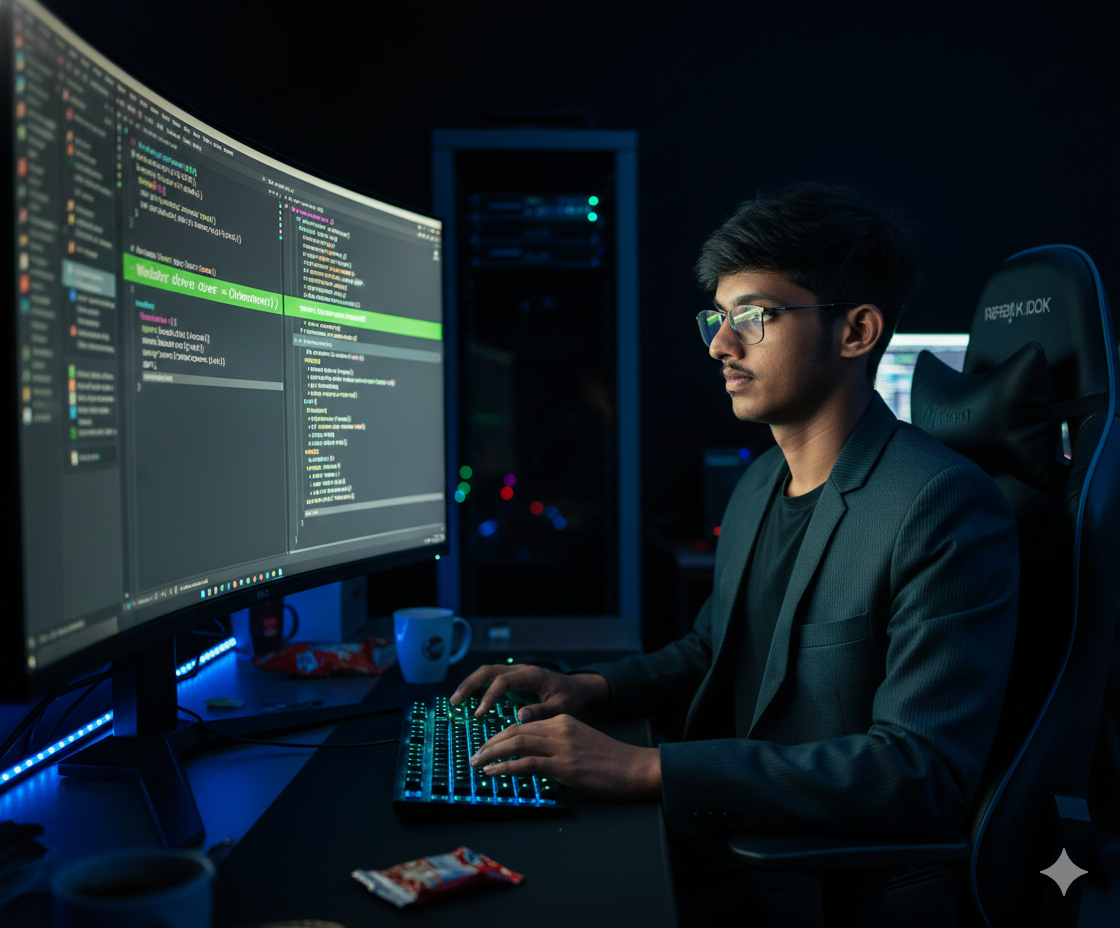
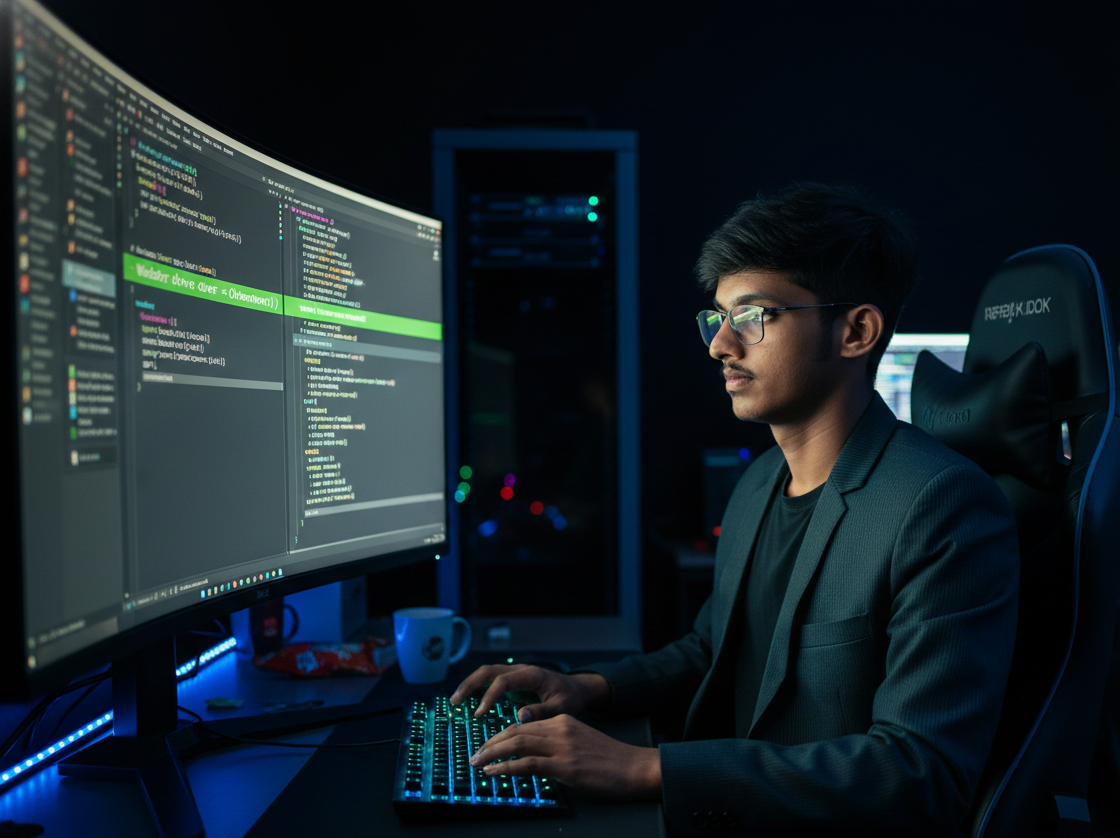
Newly Updated

diff --git a/style.css b/style.css
@@ -441,16 +441,60 @@ textarea {
         
 .project-cs-hero {
   color: #FF8800;
-  background-image:url("IMG_2900\ \(1\).jpg");
+  background-image: url("IMG_2900 (1).jpg");
   background-size: cover;
   background-position: center;
-  position: relative; }
-  @media only screen and (max-width: 37.5em) {
-    .project-cs-hero {
-      height: unset;
-      min-height: unset; } }
+  position: relative;
+
+  /* Start zoomed out */
+  transform: scale(1.2);
+
+  /* Animate to normal scale */
+  animation: zoomInBg 3s ease forwards;
+  transform-origin: center center;
+}
+
+@keyframes zoomInBg {
+  from {
+    transform: scale(1.2);
+  }
+  to {
+    transform: scale(1);
+  }
+}
+
+@media only screen and (max-width: 38.5em) {
+  .project-cs-hero {
+    height: unset;
+    min-height: unset;
+  }
+}
+
+.project-cs-hero__content {
+  padding: 25rem 0 17rem 0;
+  max-width: 90rem;
+  width: 92%;
+  margin: auto;
+}
+
+@media only screen and (max-width: 37.5em) {
+  .project-cs-hero__content {
+    padding: 19rem 0 13rem 0;
+    margin: auto;
+    position: static;
+    transform: translate(0, 0);
+  }
+}
+
+.text-primary {
+  color: white;
+}
+
+
+
   .project-cs-hero__content {
     padding: 25rem 0 17rem 0;
+
    
 
     
@@ -460,8 +504,7 @@ textarea {
     @media only screen and (max-width: 37.5em) {
       .project-cs-hero__content {
        
-       
-        padding: 19rem 0 13rem 0;
+       padding: 19rem 0 13rem 0;
         margin: auto;
         position: static;
         transform: translate(0, 0); } }

diff --git a/index.html b/index.html
@@ -98,10 +98,7 @@
 
         <div class="home-hero__info">
           <p class="text-primary" id="animatedText">
-Driven Software Developer with expertise in Java and Spring Boot, and proven experience in designing,
-developing, and optimizing scalable applications. Passionate about leveraging cuttingedge technologies
-to drive innovation Technology. Skilled in problem-solving, collaborative development, and delivering
-solutions that meet both technical and business goals.
+Driven Software Developer with expertise in Java and Spring Boot, experienced in designing, developing, and optimizing scalable applications. Proficient in Microservices architecture and monitoring tools like Kibana, with a proven ability to leverage cutting-edge technologies to drive innovation. Skilled in problem-solving, collaborative development, and delivering solutions that align with both technical requirements and business goals.
           </p>
         </div>
         <div class="home-hero__cta">

diff --git a/project3.html b/project3.html
@@ -22,12 +22,12 @@
         <div class="header__logo-container">
           <div class="header__logo-img-cont">
             <img
-              src="aapi.jpg"
+              src="IMG_26551.jpg"
               alt=""
               class="header__logo-img"
             />
           </div>
-          <span class="header__logo-sub" id="typing-text"></span>
+          <span class="header__logo-sub" id="typing-text">Master Sales Platform</span>
         </div>
         <div class="header__main">
           <ul class="header__links">

diff --git a/project2.html b/project2.html
@@ -22,7 +22,7 @@
         <div class="header__logo-container">
           <div class="header__logo-img-cont">
             <img
-              src="aapi.jpg"
+              src="IMG_26551.jpg"
               alt=""
               class="header__logo-img"
             />
@@ -191,7 +191,6 @@ principles, and performance optimization, resulting in a highly engaging and use
         </div>
       </div>
     </footer>
-  
-   
+   <script src="animation.js"></script>
   </body>
   </html>

diff --git a/project1.html b/project1.html
@@ -22,7 +22,7 @@
         <div class="header__logo-container">
           <div class="header__logo-img-cont">
             <img
-              src="aapi.jpg"
+              src="IMG_26551.jpg"
               alt=""
               class="header__logo-img"
             />
